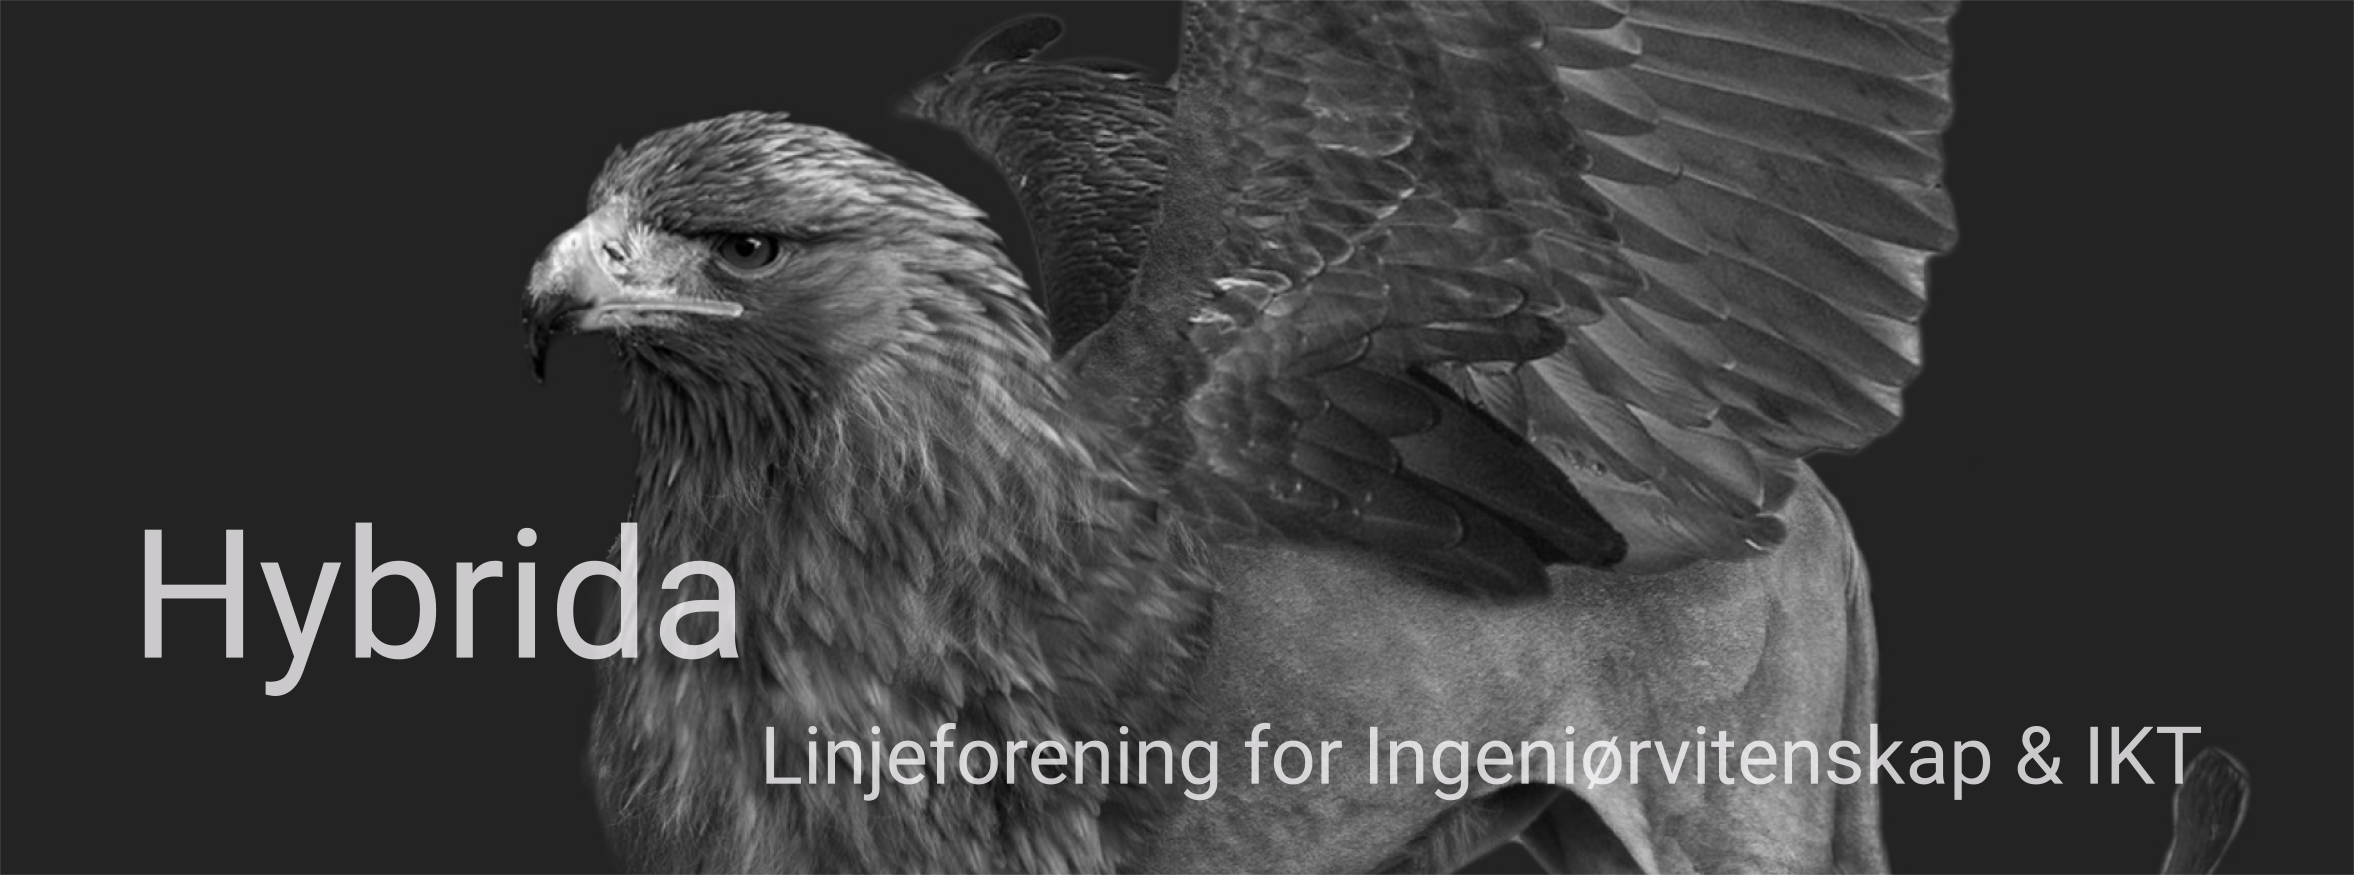
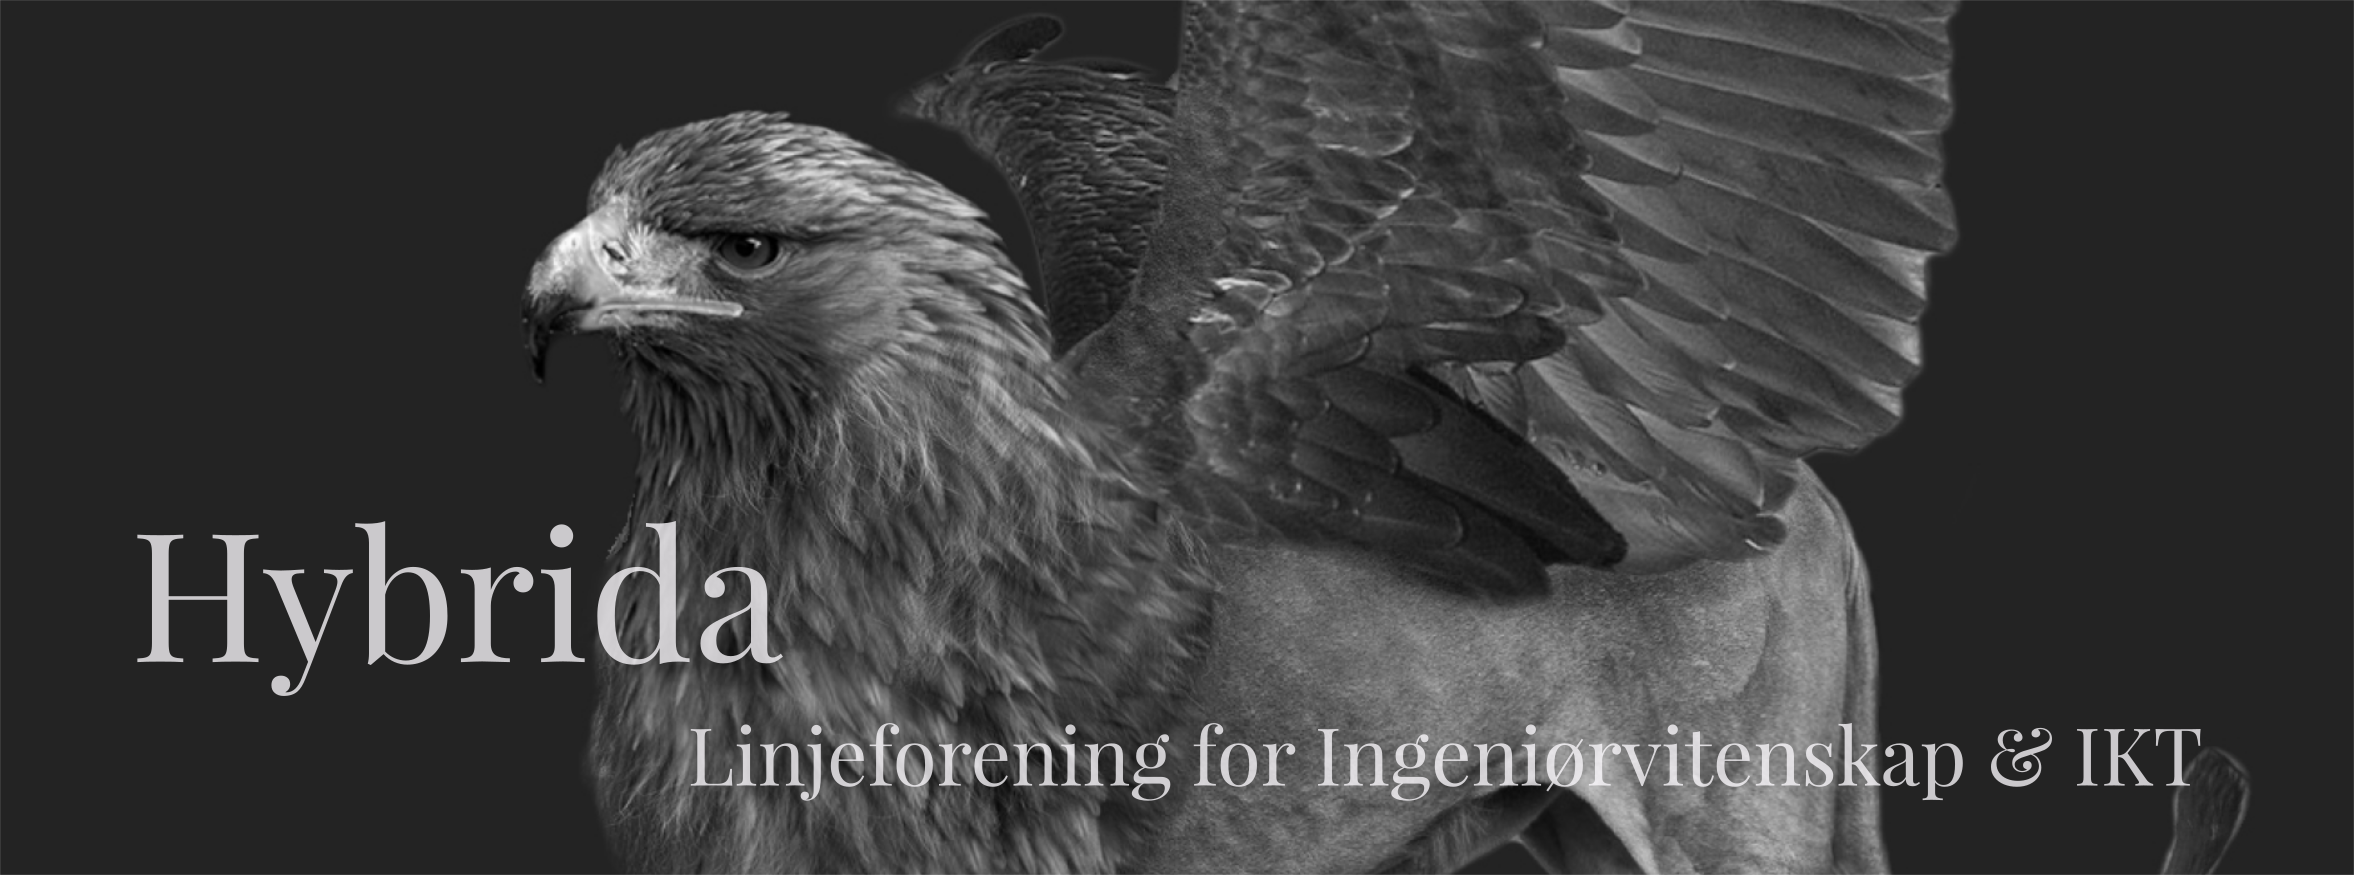
fix event view html

Changed region(s): [[0.062, 0.5863, 0.3411, 0.8023], [0.2791, 0.8331, 0.9303, 0.9257]]

diff --git a/app/views/Event/viewEvent.scala.html b/app/views/Event/viewEvent.scala.html
@@ -1,33 +1,34 @@
 @(article : models.Article, event : models.Event)
 @(/*This is for rendering a single event.*/)
+<div class="article-bg">
+    <div class="container">
+        <div class="row">
+            <div class="col-md-9 white-boxer">
 
-<div class="content2">
-    <div style="border-bottom: 2px solid #9e9d98 \">
-        <img src="@article.getImagePath" alt="No image available" width=50% height=50%/><br>
-    @article.getTitle
-    </div>
-    <br>
-    @article.getIngress
-    <br>
-    @Html(article.getText)
-    <br>
-    Av: @User.find.byId(article.getAuthor).getName
-    <br>
-    Meldt på: @models.UserEventJoined.getNumberOfSignedUp(event.getEventId) / @event.getMaxParticipants
-    <br>
-    Første oppmeldingsfrist: @event.getSignUpDeadline.getTime()
-    <br>
-    Andre oppmeldingsfrist: @event.getSecondSignUp.getTime()
-    <br>
-    Det skjer: @event.getEventHappens.getTime()
-    <br>
-    Første grense for år: @event.getFirstUpperGraduationLimit og @event.getFirstLowerGraduationLimit
-    <br>
-    Første grense for år: @event.getSecondUpperGraduationLimit og @event.getSecondLowerGraduationLimit
+                    <img src="@article.getImagePath" alt="No image available" width=50% height=50%/><br>
+                <h1><p class="text-center">@article.getTitle </p></h1>
+                <br>
+                <h3><p class="text-center">@article.getIngress</p></h3>
+                <br>
+                <p class="text-center">@Html(article.getText)</p>
+                <br>
+                Av: @User.find.byId(article.getAuthor).getName
+                <br>
+                Meldt på: @models.UserEventJoined.getNumberOfSignedUp(event.getEventId) / @event.getMaxParticipants
+                <br>
+                Første oppmeldingsfrist: @event.getSignUpDeadline.getTime()
+                <br>
+                Andre oppmeldingsfrist: @event.getSecondSignUp.getTime()
+                <br>
+                Det skjer: @event.getEventHappens.getTime()
+                <br>
+                Første grense for år: @event.getFirstUpperGraduationLimit og @event.getFirstLowerGraduationLimit
+                <br>
+                Første grense for år: @event.getSecondUpperGraduationLimit og @event.getSecondLowerGraduationLimit
 
 
 
-    @if(models.LoginState.getUser().getId == article.getAuthor) {
-        <a href="@controllers.routes.Event.editEvent(String.valueOf(event.getEventId))"> Rediger </a>
-    }
-</div>
+                @if(models.LoginState.getUser().getId == article.getAuthor) {
+                    <a href="@controllers.routes.Event.editEvent(String.valueOf(event.getEventId))"> Rediger </a>
+                }
+            </div> </div> </div> </div>

diff --git a/public/stylesheets/mainBS.css b/public/stylesheets/mainBS.css
@@ -1,8 +1,8 @@
 body {
     font-family: 'Raleway', sans-serif;
     padding-top: 50px;
-    background: #fff;
-    /*background: url("../images/kilt3.PNG") repeat;*/
+    /*background: #fff;*/
+    background: url("../images/kilt3.PNG") repeat;
 }
 
 #logo {
@@ -17,12 +17,14 @@ body {
 }
 
 h1 {
+    text-align: center;
+    font-size: 5em;
     font-family: 'Playfair Display', serif;
 }
 
 
 a {
-    font-family: 'Playfair Display', serif;
+    font-family: Raleway;
     text-decoration: none;
     color: #777;
 }
@@ -58,7 +60,7 @@ a :hover {
     left:0;
     right:0;
     overflow: hidden;
-}
+    }
 
 #carousel-frontpage > div > .item > img{
     width:100%
@@ -110,6 +112,7 @@ a :hover {
 }
 .row.container-height {
     overflow: hidden;
+    background-color: #fff;
 }
 
 .row.container-height > [class*="col-"]{

diff --git a/app/views/Company/index.scala.html b/app/views/Company/index.scala.html
@@ -2,6 +2,7 @@
 
 <div class="container">
     <div id="article">
+        <div class="white-boxer">
         <div id='article-title'><h1>Bedrift</h1></div><div id='article-content'><h2>
         Bedriftskontakt</h2>
         <p>
@@ -46,5 +47,5 @@
             Priser:</h2>
         <p>
             Hybrida BedKom tar et honorar på kroner 10 000,- for en full bedriftspresentasjon som holdes for alle klassetrinn ved studiet. Dette inkluderer PR-kostnader og liknende. Mat og drikke kommer i tillegg. Priser fra ulike leverandører fåes ved forespørsel. Hvis bedriften ønsker en presentasjon for mindre grupper innenfor I &amp; IKT (typisk en av spesialiseringene), kan dette selvsagt ordnes etter avtale. Slike arrangement tar vi selvsagt et lavere honorar for.</p>
-    </div>	</div>
+    </div>	</div> </div>
 </div>

diff --git a/public/stylesheets/page.css b/public/stylesheets/page.css
@@ -5,7 +5,7 @@
     margin: 30px 50%;
     padding: 40px 0 80px;
     transform: translate(-50%, 0);
-
+    
     background: #fff;
     box-shadow: -5px 5px 25px rgba(0,0,0,0.4);
 }
@@ -40,7 +40,7 @@
     margin: 0 50px 10px;
     padding: 0 0 10px;
     border-bottom: 2px solid #999;
-    font: normal 18px "Gill", serif;
+    font: normal 18px "Playfair Display", serif;
     text-transform: uppercase;
     color: #777;
 }
@@ -51,7 +51,7 @@
 
     text-align: center;
     text-transform: uppercase;
-    font-family: "Gill", serif;
+    font-family: "Playfair Display";
 }
 
 .bigTitle {

diff --git a/app/views/ArticleOut/viewArticle.scala.html b/app/views/ArticleOut/viewArticle.scala.html
@@ -8,7 +8,7 @@
                     <img src="@article.getImagePath" alt="No image available" class="center-block img-responsive art-img"><br>
                     <h1><p class="text-center">@article.getTitle</p></h1>
                 </div>
-                <hr>
+                <br>
                 <h3><p class="text-center">@article.getIngress</p></h3>
                 <br>
                 <p class="text-center">@Html(article.getText)</p>
